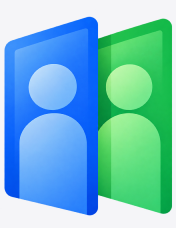
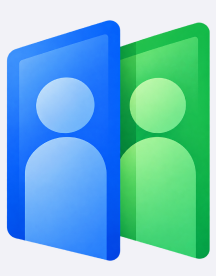
Sidedoor prototype: Login matches V6 — button reset no longer eats type, real Figma assets

diff --git a/components/sidedoor/screens/onboarding.tsx b/components/sidedoor/screens/onboarding.tsx
@@ -42,8 +42,10 @@ export function Login() {
       <div className="sd-login">
         <div style={{ display: "flex", flexDirection: "column", gap: 36, alignItems: "center", paddingTop: 18 }}>
           <div style={{ display: "flex", flexDirection: "column", gap: 16, alignItems: "center" }}>
-            <Image src="/images/sidedoor/sidedoor-mark.png" alt="" width={54} height={69} style={{ width: 54, height: "auto" }} />
-            <Image src="/images/sidedoor/sidedoor-word.png" alt="SideDoor" width={132} height={24} style={{ width: 132, height: "auto" }} />
+            {/* the mark is a bitmap in Figma (exported at 4x); the wordmark is a vector, so it is
+                the same SVG Figma draws, not a flattened PNG */}
+            <Image src="/images/sidedoor/sidedoor-mark.png" alt="" width={216} height={276} style={{ width: 54, height: 69 }} priority />
+            <Image src="/images/sidedoor/sidedoor-word.svg" alt="SideDoor" width={132} height={24} style={{ width: 132, height: 24 }} unoptimized priority />
           </div>
           <div style={{ display: "flex", flexDirection: "column", gap: 8, alignItems: "center" }}>
             <p className="t-h-sm">{lines[page]}</p>
@@ -63,21 +65,21 @@ export function Login() {
               ))}
             </div>
           </div>
-          <Image src="/images/sidedoor/splash.png" alt="" width={227} height={256} style={{ width: 227, height: "auto" }} priority />
+          <Image src="/images/sidedoor/splash.png" alt="" width={908} height={1024} style={{ width: 227, height: 256 }} priority />
         </div>
         <div style={{ display: "flex", flexDirection: "column", gap: 12, width: "100%", alignItems: "center" }}>
           {/* order and the 8 gap are decisions in LOG.md: LinkedIn, Google, Apple */}
           <div style={{ display: "flex", flexDirection: "column", gap: 8, width: "100%" }}>
             <Button
               onClick={() => nav.reset("role")}
-              icon={<Image src="/images/sidedoor/linkedin.png" alt="" width={24} height={24} />}
+              icon={<Image src="/images/sidedoor/linkedin.png" alt="" width={48} height={48} style={{ width: 24, height: 24 }} />}
             >
               Sign in with LinkedIn
             </Button>
             <Button
               type="secondary"
               onClick={() => nav.reset("role")}
-              icon={<Image src="/images/sidedoor/google-icon.png" alt="" width={24} height={24} />}
+              icon={<Image src="/images/sidedoor/google-icon.png" alt="" width={64} height={66} style={{ height: 24, width: "auto" }} />}
             >
               Sign in with Google
             </Button>

diff --git a/components/sidedoor/app.css b/components/sidedoor/app.css
@@ -95,8 +95,11 @@
 .sd *::before,
 .sd *::after { box-sizing: border-box; margin: 0; padding: 0; }
 
-.sd button { font: inherit; color: inherit; background: none; border: 0; cursor: pointer; }
-.sd input, .sd textarea { font: inherit; color: inherit; background: none; border: 0; outline: none; }
+/* :where() so the reset has no specificity: a class on the button must always win. Written as
+   `.sd button` it beat every .sd-btn rule, and every button in the app lost its weight and
+   line height to the inherited body values (found 20 Sep 2026). */
+:where(.sd) button { font: inherit; color: inherit; background: none; border: 0; cursor: pointer; }
+:where(.sd) input, :where(.sd) textarea { font: inherit; color: inherit; background: none; border: 0; outline: none; }
 .sd ul { list-style: none; }
 
 /* ── type styles (text/* in Figma) ───────────────────────────────────────── */
@@ -528,7 +531,7 @@
 .sd-wheel-sel { position: absolute; left: 0; right: 0; top: 90px; height: 36px; border-radius: var(--sd-r-md); background: var(--sd-fill-3); pointer-events: none; }
 
 /* ── login splash ───────────────────────────────────────────────────────── */
-.sd-login { flex: 1 1 auto; display: flex; flex-direction: column; justify-content: space-between; align-items: center; padding: 16px 48px 40px; background: #fff; }
+.sd-login { flex: 1 1 auto; display: flex; flex-direction: column; justify-content: space-between; align-items: center; padding: 16px 48px 40px; background: var(--sd-n75); }
 
 /* the link page is a web page, not the app: it keeps a logo bar and has no tab bar */
 .sd-web-bar { height: 56px; flex: 0 0 auto; display: flex; align-items: center; gap: 8px; padding: 0 16px; background: #fff; box-shadow: 0 0.5px 0 rgba(0, 0, 0, 0.1); }

diff --git a/sidedoor-case-study/LOG.md b/sidedoor-case-study/LOG.md
@@ -1798,3 +1798,29 @@ tapping as well.
 **Not built, said plainly:** the prototype is one candidate (Abhinav) and one referrer (Nithin) on
 one job. Other people in the lists are fixed data. Nothing is stored between reloads, and nothing
 here has been in front of a real user yet — that is still `molades-test`.
+
+FIX · 20 Sep 2026 · prototype · Login did not match V6
+Found:  `.sd button { font: inherit }` in app.css. Specificity (0,1,1) beat every
+        `.sd-btn` rule (0,1,0), so every button in the app lost its font-weight and
+        line-height to the inherited body values. Buttons rendered 400 weight at
+        1.6 line-height and 53.6px tall instead of 500 at 24px and 52px tall.
+        This was app-wide, not just Login.
+Fixed:  the reset is now `:where(.sd) button`, specificity zero, so a class always wins.
+
+FIX · 20 Sep 2026 · prototype · Login assets and background
+- Screen fill was #fff. Figma's Login is #f2f2f7. Corrected.
+- Wordmark was a 132x24 PNG. In Figma it is a vector, so the prototype now uses the
+  same SVG Figma draws.
+- Mark PNG was exported at 64x83 (1x, and the wrong aspect against Figma's 54x69).
+  Re-exported at 4x, 216x276.
+- Splash PNG was 320x360; re-exported at 4x, 908x1024.
+- Icons inside buttons are now given explicit sizes rather than letting the file's
+  aspect decide.
+
+DECISION · 20 Sep 2026 · prototype · content column left at 306, not 294
+Decided:  keep the 48px side gutters from V6.
+Because:  V6 Login is drawn at 390x844 (iPhone 14). The prototype phone is an
+          iPhone 17 at 402x874. Holding the gutters gives a 306 column instead of
+          Figma's 294. iOS grows the content, not the margins, so this is the
+          right way round — but it is a real 12px difference and it is not a bug.
+How sure: saw it (measured both).
